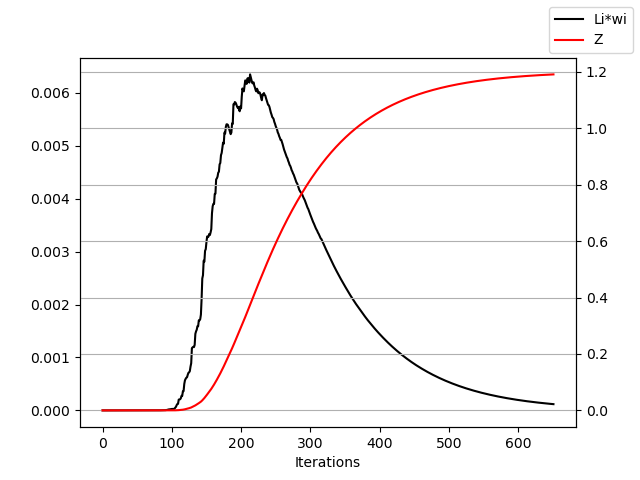
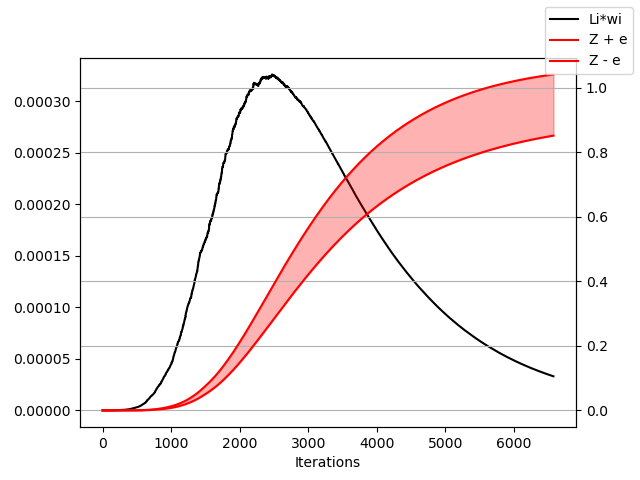
uniform distribution modified

diff --git a/nested_sampling.py b/nested_sampling.py
@@ -67,7 +67,7 @@ def log_prior(x, dim, boundary=5):
 
     return prior
 
-def uniform_proposal(x, dim, logLmin, survivor):
+def uniform_proposal(x, dim, logLmin, boundary_point, std):
     ''' Sample a new object from the prior subject to the constrain L(x_new) > Lworst_old
 
     Parameters
@@ -85,14 +85,13 @@ def uniform_proposal(x, dim, logLmin, survivor):
     while True:
         n += 1
         new_line = np.zeros(dim+2, dtype=np.float64)
-        new_line[:dim] = np.random.uniform(-step, step, size=dim)
+        new_line[:dim] = boundary_point[:dim] + np.random.uniform(-std, std, size=dim)
         new_log_prior = log_prior(new_line[:dim], dim)
         new_line[dim] = new_log_prior[0]
         new_line[dim+1] = log_likelihood(new_line[:dim], dim, init=False)[0]
 
         if new_line[dim+1] < logLmin:
             rejected += 1
-            counter += 1
         if new_line[dim+1] > logLmin:
             accepted += 1
             boundary_point[:dim] = new_line[:dim]
@@ -100,10 +99,10 @@ def uniform_proposal(x, dim, logLmin, survivor):
                 end = time.time()
                 break
         if accepted != 0 and rejected != 0:
-            if accepted > rejected: step *= np.exp(1.0/accepted)
-            if accepted < rejected: step /= np.exp(1.0/rejected)
+            if accepted > rejected: std *= np.exp(1.0/accepted)
+            if accepted < rejected: std /= np.exp(1.0/rejected)
 
-        return new_line, (end-start), accepted, rejected
+    return new_line, (end-start), accepted, rejected
 
 def normal_proposal(x, dim, logLmin, boundary_point, std):
     ''' Sample a new object from the prior subject to the constrain L(x_new) > Lworst_old
@@ -152,7 +151,7 @@ def nested_samplig(live_points, dim, resample_function=uniform_proposal, verbose
 
     N = live_points.shape[0]
     f = np.log(0.05)
-    area = []; Zlog = [[],[]]; logL_worst = []; T = []; prior_mass = [] # lists for plots
+    area = []; Zlog = [[],[]]; logL_worst = []; T = []; prior_mass = []
 
     logZ = -np.inf
     H = 0
@@ -233,7 +232,7 @@ if __name__ == "__main__":
     n = args.num_live_points
     dim = args.dim
     boundary = args.boundary
-    for d in tqdm(range(1,dim+1,2)):
+    for d in tqdm(range(dim,dim+1)):
         live_points = np.zeros((n, d+2), dtype=np.float64) # the first dim columns for each row represents my multidimensional array of parameters
         if args.proposal == 0:
             prop = 'Uniform'
